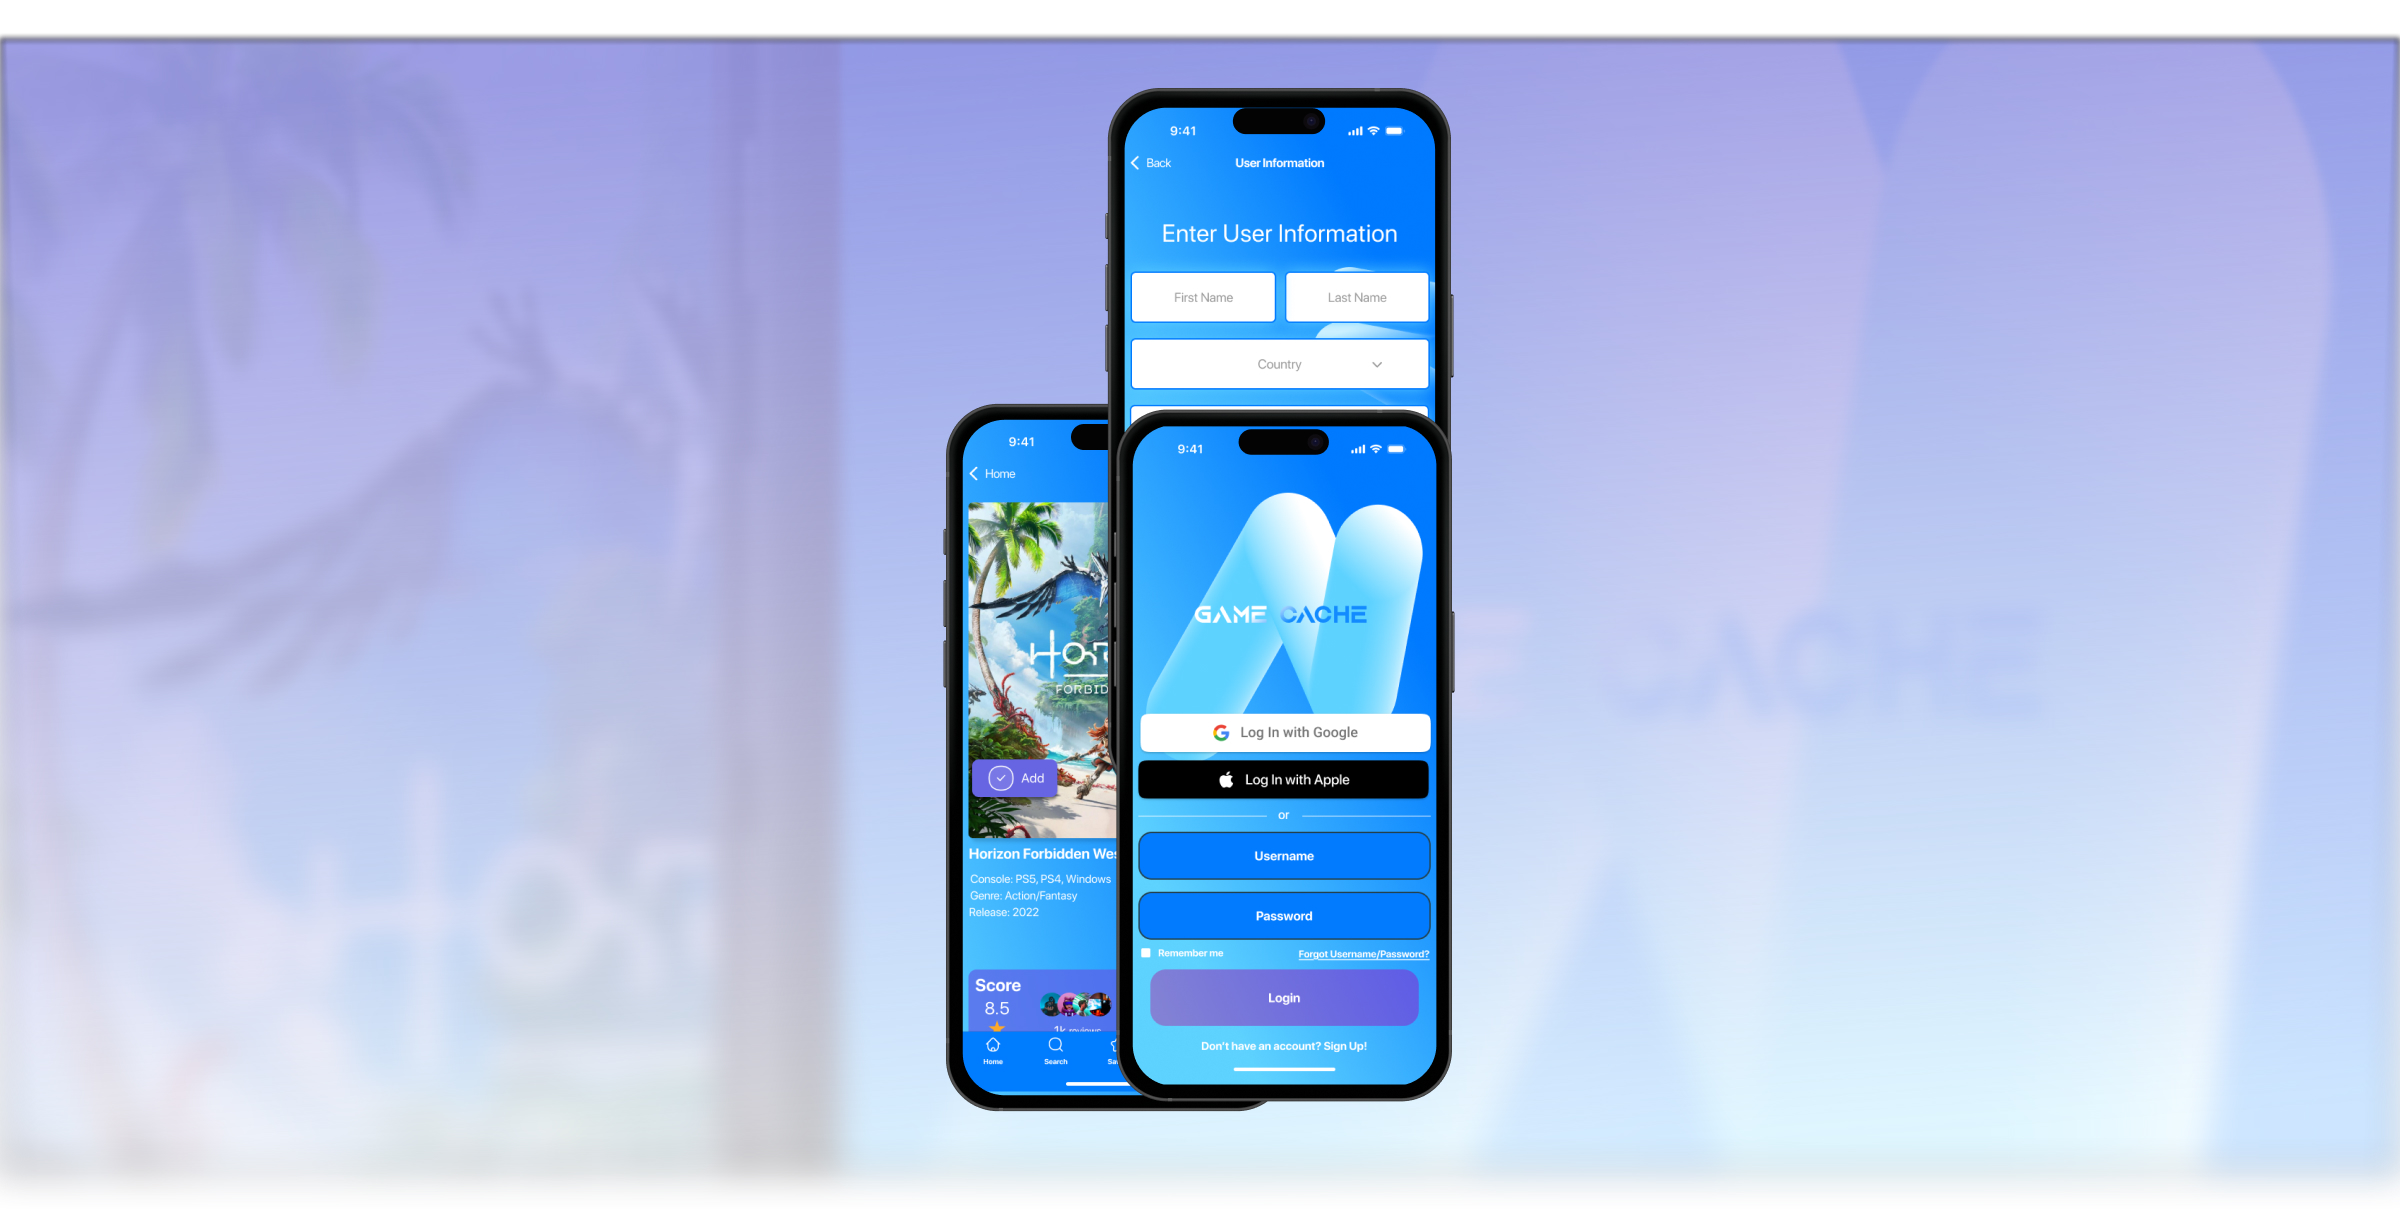
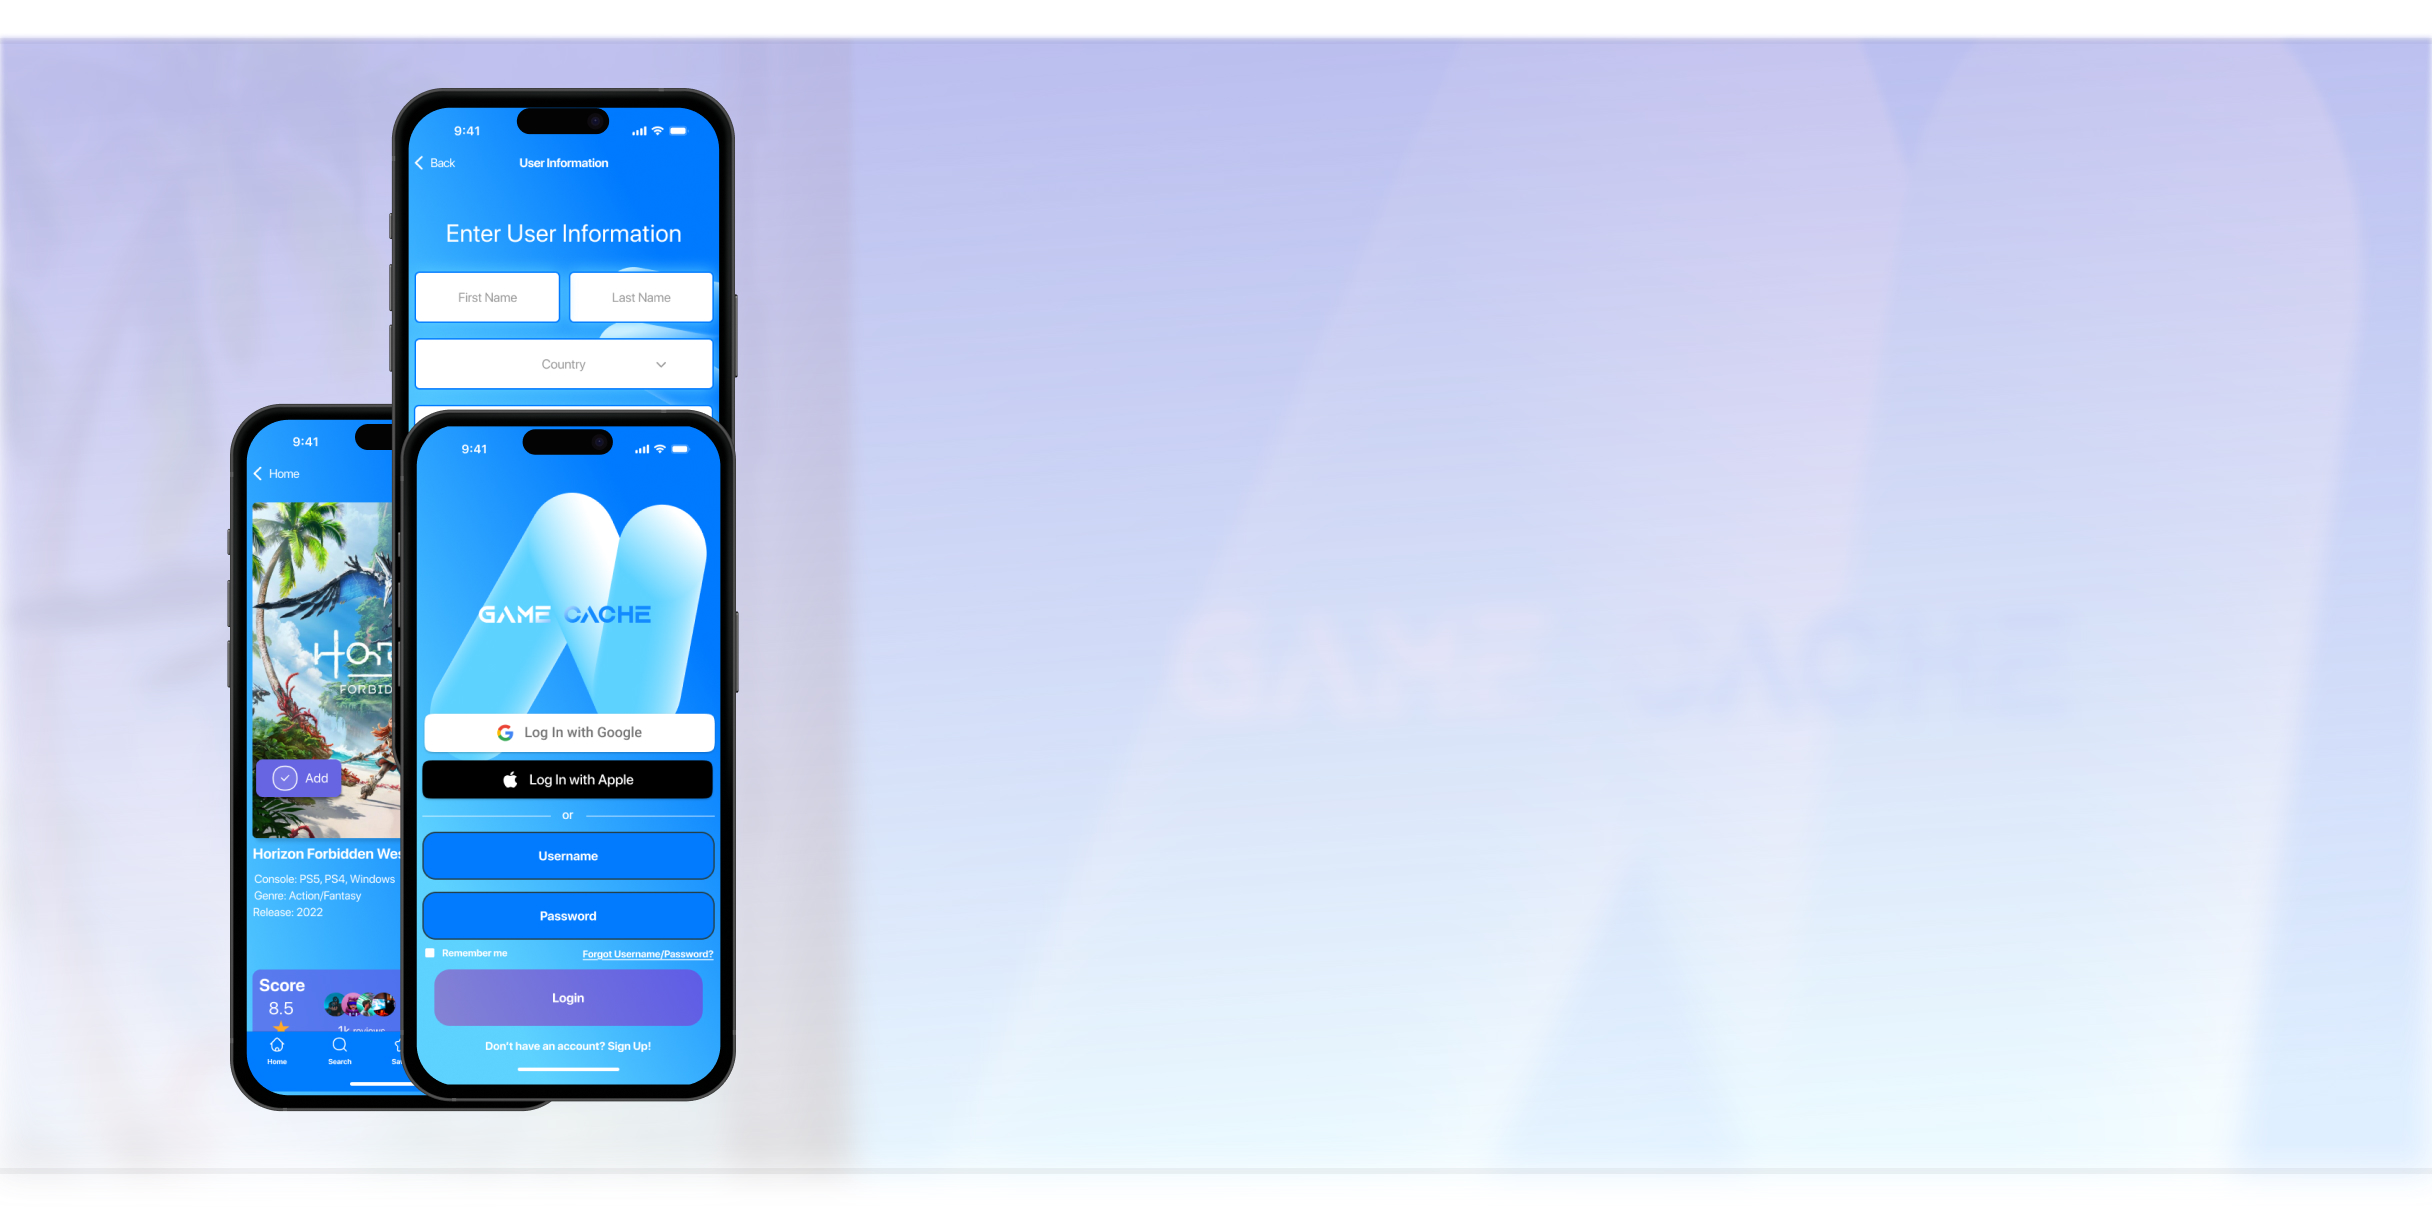
if applied, work img changed.

diff --git a/css/style.css b/css/style.css
@@ -438,8 +438,8 @@ text-decoration: none;
 
         .row1 {
         display: inline-block;
-        width: 90%;
-        padding-top: 10px;
+        width: 100%;
+        padding-top: 50px;
         padding-bottom: 0px;
         padding-left: 10px;
         margin-top: 0px; 
@@ -450,7 +450,7 @@ text-decoration: none;
         width: 90%;
         padding-top: 0px;
         padding-bottom: 0px;
-        padding-left: 8%;
+        padding-left: 10px;
         margin-top: 0px; 
     }
 
